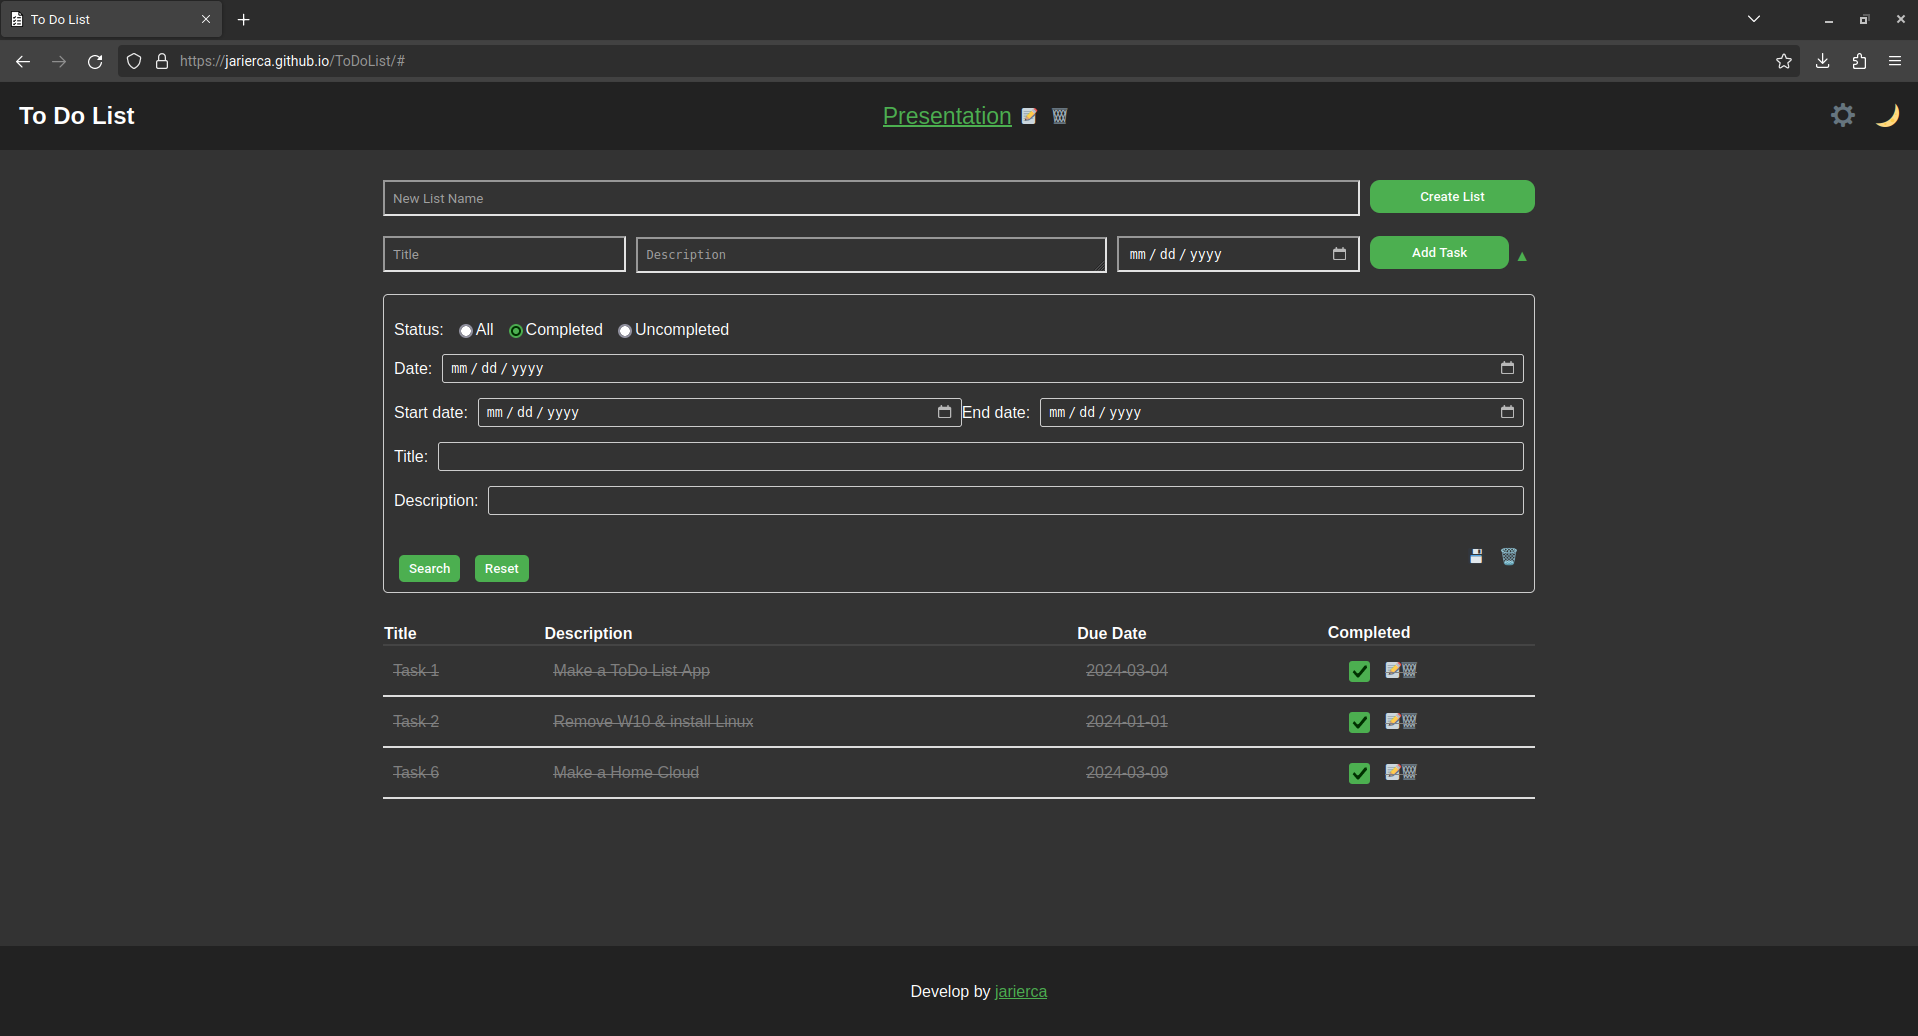
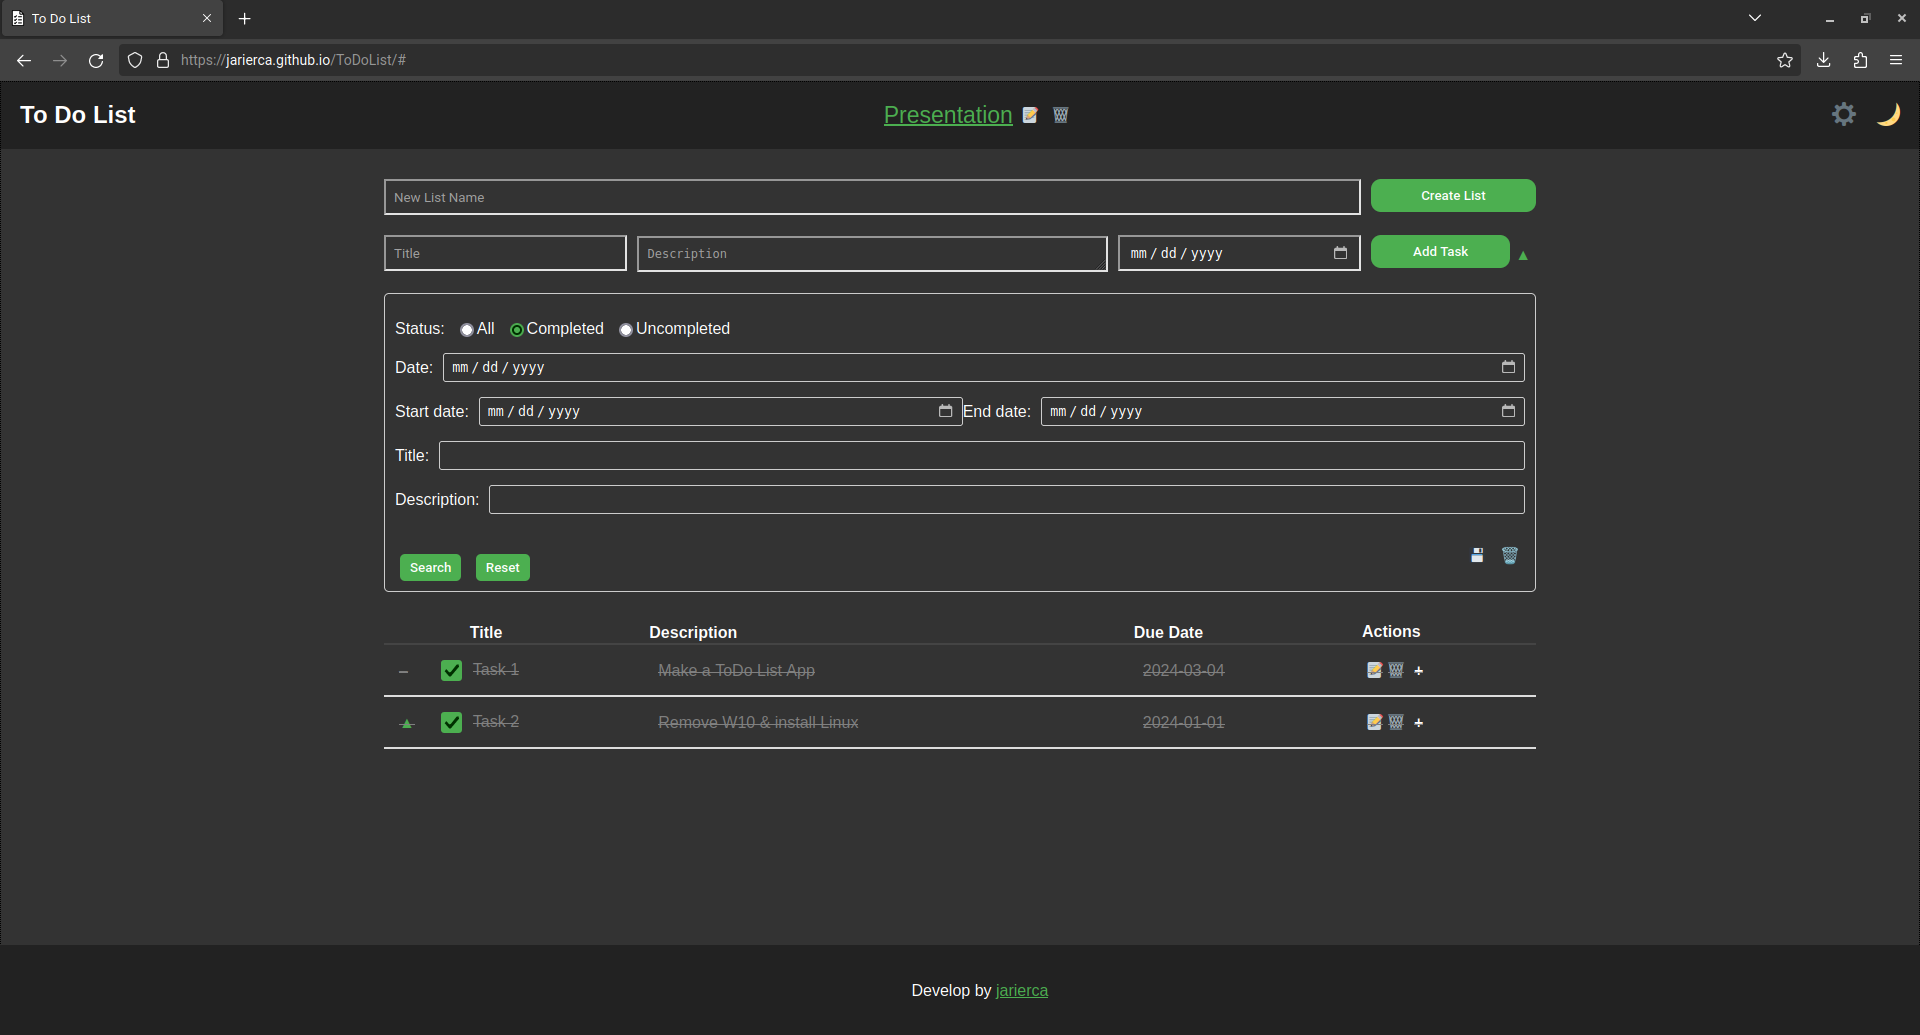
Apply filter to not show subtasks from a matching parent task

diff --git a/script.js b/script.js
@@ -450,6 +450,10 @@ function applyFilter() {
   filteredTasks.forEach(function(task) {
     var row = createTaskRow(task);
     taskTableBody.appendChild(row);
+
+    if (task.subtasks && task.subtasks.length > 0) {
+       loadSubtasks(task);
+    }
   });
 }
 
@@ -913,7 +917,7 @@ function toggleSubtasksVisibility(taskRow) {
     var aToggleHide = taskRow.querySelector('a.toggle-hide');
     
     if (showSubTasks) {
-      subtaskContainer.style.display = "block";
+      subtaskContainer.style.display = "";
       aToggleHide.textContent = "▲";
 
     } else {
@@ -926,7 +930,7 @@ function toggleSubtasksVisibility(taskRow) {
 
       saveListsData();
 
-      loadTasks();
+      //loadTasks();
     }
   }
 }
